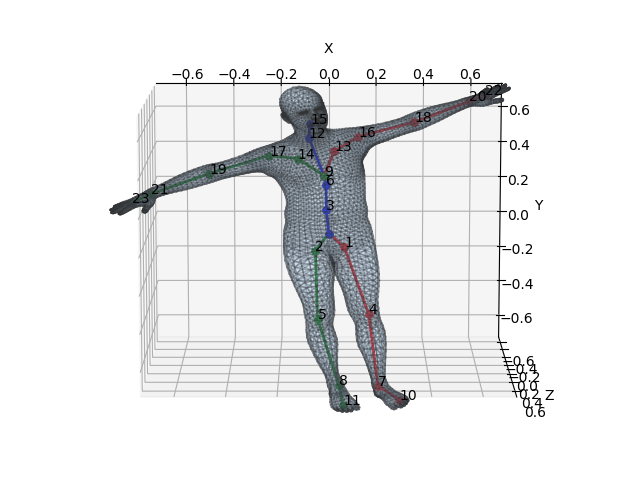
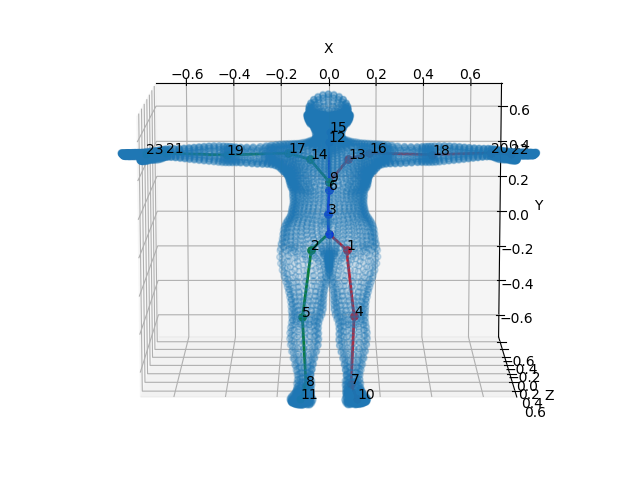
add trainer and SMPL-h36m conv

Changed region(s): [[0.1562, 0.1562, 0.8438, 0.875]]

diff --git a/dataset_def/h36m_SMPL_data.py b/dataset_def/h36m_SMPL_data.py
@@ -8,7 +8,7 @@ import torch
 from utils.utils_H36M.common import H36M_CONF
 from sample.config.encoder_decoder import PARAMS
 from dataset_def.h36m_preprocess import Data_Base_class
-from utils.utils_H36M.transformations import get_patch_image, bounding_box_pixel, rotate_z
+from utils.utils_H36M.transformations import get_patch_image, bounding_box_pixel
 from utils.trans_numpy_torch import numpy_to_tensor, image_numpy_to_pytorch, numpy_to_long, tensor_to_numpy
 
 class SMPL_Data(Data_Base_class):
@@ -50,34 +50,6 @@ class SMPL_Data(Data_Base_class):
             shuffle(self.index_file)
         self.elements_taken=0
         self._current_epoch=0
-
-
-    def get_mean_pose(self):
-        summed = np.zeros((17,3))
-        N = 0
-        for s in self.all_metadata:
-            for act in self.all_metadata[s]:
-                for subact in self.all_metadata[s][act]:
-                    for ca in self.all_metadata[s][act][subact]:
-                        metadata=self.all_metadata[s][act][subact][ca]['joint_world']
-                        N += metadata.shape[0]
-                        summed += np.sum(metadata, axis=0)
-
-        return summed/N
-
-    def get_std_pose(self,mean):
-        summed = np.zeros((17,3))
-        mean=mean.reshape(1,17,3)
-        N = 0
-        for s in self.all_metadata:
-            for act in self.all_metadata[s]:
-                for subact in self.all_metadata[s][act]:
-                    for ca in self.all_metadata[s][act][subact]:
-                        metadata=self.all_metadata[s][act][subact][ca]['joint_world']
-                        N+= metadata.shape[0]
-                        summed += np.sum((metadata-mean)**2, axis=0)
-        summed /= N-1
-        return np.sqrt(summed)
 
 
 
@@ -129,7 +101,6 @@ class SMPL_Data(Data_Base_class):
         return dic
 
 
-
     def update_dic_with_image(self, dic, s, act, subact, ca, fno, rotation_angle):
         im, joints_world=self.extract_image_info(s, act, subact, ca, fno, rotation_angle=rotation_angle)
         dic['image'].append(image_numpy_to_pytorch(im))
@@ -149,8 +120,11 @@ class SMPL_Data(Data_Base_class):
         return dic
 
     def dic_final_processing(self,dic):
+
         dic['image'] = torch.stack(dic['image'], dim=0)
         dic['joints_im'] = torch.stack(dic['joints_im'], dim=0)
+        dic['root_pos'] = dic['joints_im'][:, H36M_CONF.joints.root_idx, : ]
+        dic['root_pos'] = dic['root_pos'].view(-1, 1, 3)
         for mask in dic['masks'].keys():
             for key in dic['masks'][mask].keys():
                 if key == 'idx':
@@ -173,7 +147,6 @@ class SMPL_Data(Data_Base_class):
         len(self.index_file_cameras) // self.batch_size
 
 
-    # remember subtract the root index !!!!!!!
     def __getitem__(self, item):
         idx = item * self.batch_size
         dic = self.create_dictionary_data()
@@ -207,12 +180,28 @@ if __name__== '__main__' :
     s,act,sub,ca,fno = c.index_file[el_idx+idx]
     print(s,act,sub,ca,fno)
     joints=dic['joints_im']
+    j_plot = tensor_to_numpy(joints[idx])
+    f = plt.figure()
+    f = d.pose_3d(j_plot, True, f, -90, 0)
+    plt.show()
+    f=plt.figure()
+    from utils.utils_H36M.transformations import rotate_z, rotate_x, rotate_y
+    j_plot = j_plot @ rotate_x(-90/180*np.pi).T
+    f = d.pose_3d(j_plot, True, f,-90,90)
+    plt.show()
+
+    """
     im = dic['image']
     im= tensor_to_numpy(im, from_gpu=False).transpose(0,2,3,1)
     im=im[idx]
     for i in range(1,5):
         mask_dic=dic['masks'][i]
         cam = world_to_camera_batch(joints,17,mask_dic['R'],mask_dic['T'])
+        j_plot = tensor_to_numpy(cam[idx])
+        if ca ==i:
+            f = plt.figure()
+            f = d.pose_3d(j_plot, True, f, -90, -90)
+            plt.show()
         pix = camera_to_pixels_batch(cam, 17, mask_dic['f'], mask_dic['c'])
         tranpi = transform_2d_joints_batch(pix,mask_dic['trans_crop'])
         tranpi = tensor_to_numpy(tranpi)
@@ -230,8 +219,7 @@ if __name__== '__main__' :
         imjj=d.pose_2d(mask,tranpi[idx],False)
         plt.imshow(imjj)
         plt.show()
-
-
+    """
 
 
 

diff --git a/sample/trainer/trainer_SMPL_from_encoder.py b/sample/trainer/trainer_SMPL_from_encoder.py
@@ -22,7 +22,7 @@ else:
     no_cuda=False
 device = PARAMS['data']['device']
 
-class Trainer_Enc_Dec_Pose(BaseTrainer):
+class Trainer_Enc_Dec_SMPL(BaseTrainer):
     """
     Trainer class, inherited from BaseTrainer
     """
@@ -44,10 +44,9 @@ class Trainer_Enc_Dec_Pose(BaseTrainer):
                          args.verbosity, args.train_log_step,
                          args.verbosity_iter)
 
-        self.model.fix_encoder_decoder()
-
         self.loss = loss
         self.metrics = metrics
+        self.model.fix_encoder_decoder()
         self.data_train = data_train
         self.data_test = data_test
 
@@ -63,7 +62,8 @@ class Trainer_Enc_Dec_Pose(BaseTrainer):
         self.length_test_set = len(self.data_test)
         self.len_trainset = len(self.data_train)
         self.drawer = Drawer()
-        mean= self.data_train.get_mean_pose()
+        #calculate mean SMPL pose
+
         self.mean_pose = numpy_to_tensor(mean.reshape(1,17,3))
         #std = self.data_train.get_std_pose(mean).reshape(1, 17, 3)
         #self.std_pose = numpy_to_tensor(std)
@@ -87,8 +87,8 @@ class Trainer_Enc_Dec_Pose(BaseTrainer):
                 string += " "
                 string += " %s," % elements
         info['details'] = string
-        info['optimiser']=str(self.optimizer)
-        info['loss']=str(self.loss.__class__.__name__)
+        info['optimiser'] = str(self.optimizer)
+        info['loss'] = str(self.loss.__class__.__name__)
         info['sampling'] = str(self.data_train.sampling)
         return info
 
@@ -145,6 +145,8 @@ class Trainer_Enc_Dec_Pose(BaseTrainer):
 
         self.optimizer.zero_grad()
         out_pose_norm = self.model(dic_in)
+
+
         gt, mean = self.gt_cam_mean_cam(dic_in, dic_out)
         #normalise gt
         gt_norm = gt-mean

diff --git a/utils/conversion_SMPL_h36m_torch.py b/utils/conversion_SMPL_h36m_torch.py
@@ -1,0 +1,43 @@
+from utils.trans_numpy_torch import numpy_to_long
+import torch
+
+class Convert_joints():
+
+    def __init__(self):
+        # root index 0 h36m index 0 smpl
+        # right leg index 2 h36m index 5 smpl
+        # right foot index 3 h36m index 8 smpl
+        # left leg index 5 h36m index 4 smpl
+        # left foot index 6 h36m index 7 smpl
+        # spine index 7 h36m index 6 smpl
+        # neck index 8 h36m index 12 smpl
+        # head index 9 h36m index 15 smpl  # lower weight
+        # left shoulder index 11 h36m index 16 smpl
+        # left forearm index 12 h36m index 18 smpl
+        # left wrist index 13 h36m index 20 smpl
+        # right shoulder index 14 h36m index 17 smpl
+        # right forearm index 15 h36m index 19 smpl
+        # right wrist index 16 h36m index 21 smpl
+        self.index_smpl = [0, 5, 8, 4, 7, 6, 12, 15, 16, 18, 20, 17, 19, 21]
+        self.index_smpl = numpy_to_long(self.index_smpl)
+        self.index_h36m = [0, 2, 3, 5, 6, 7, 8, 9, 11, 12, 13, 14, 15, 16]
+        self.index_h36m = numpy_to_long(self.index_h36m)
+
+    def index_SMPL(self, smpl_joints, batch=True):
+        if batch:
+            return torch.index_select(smpl_joints, dim=1, index=self.index_smpl)
+        return torch.index_select(smpl_joints, dim=0, index=self.index_smpl)
+
+    def index_h36m(self, h36m_joints, batch=True):
+        if batch:
+            return torch.index_select(h36m_joints, dim=1, index=self.index_h36m)
+        return torch.index_select(h36m_joints, dim=0, index=self.index_h36m)
+
+    def match_joints(self, smpl_joints, h36m_joints, batch):
+        smpl_joints = self .index_SMPL(smpl_joints, batch)
+        h36m_joints = self.index_h36m(h36m_joints, batch)
+        return smpl_joints, h36m_joints
+
+
+
+

diff --git a/sample/base/base_trainer.py b/sample/base/base_trainer.py
@@ -25,7 +25,7 @@ class BaseTrainer(FrameworkClass):
     Base class for all trainers
     """
 
-    def __init__(self, model, loss, metrics, optimizer, no_cuda, eval_epoch, epochs,
+    def __init__(self, model, optimizer, no_cuda, eval_epoch, epochs,
                  name, output, save_freq, verbosity,
                  train_log_step, verbosity_iter,reset=False, **kwargs):
         """Init class"""
@@ -34,8 +34,6 @@ class BaseTrainer(FrameworkClass):
 
 
         self.model = model
-        self.loss = loss
-        self.metrics = metrics
         self.optimizer = optimizer
         self.epochs = epochs
         self.training_name = name
@@ -130,7 +128,7 @@ class BaseTrainer(FrameworkClass):
             info = io.read_from_json(info_file_path)
         self.training_info = info
 
-    def _update_summary(self, global_step, loss, metrics):
+    def _update_summary(self, global_step, loss):
         """Update training summary details
 
         Arguments:
@@ -141,11 +139,6 @@ class BaseTrainer(FrameworkClass):
 
         self.training_info['global_step'] = global_step
         self.training_info['val_loss'] = loss
-        for idx, metric in enumerate(self.metrics):
-            m = metrics[idx]
-            if isinstance(m, np.ndarray):
-                m = m.tolist()
-            self.training_info['val_{}'.format(metric._desc)] = m
 
         info_file_path = os.path.join(self.save_dir,
                                       self.training_name,

diff --git a/utils/utils_H36M/visualise.py b/utils/utils_H36M/visualise.py
@@ -15,7 +15,8 @@ class Drawer:
 
     def __init__(self, line=1, marker=2, visibility=None):
 
-        self.limbs_names=['hip','right_up_leg','right_leg','right_foot','left_up_leg','left_leg', 'left_foot','spine1','neck', 'head','head-top','left-arm','left_forearm','left_hand','right_arm','right_forearm','right_hand']
+        self.limbs_names=['hip','right_up_leg','right_leg','right_foot','left_up_leg','left_leg', 'left_foot','spine1', 'neck', 'head','head-top',
+                          'left-arm','left_forearm','left_hand','right_arm','right_forearm','right_hand']
         self._limb_color = [0, 1, 2, 0, 3, 4, 5, 6, 7, 7, 5, 5, 8, 9, 5, 5,10,11,7]
         self._limbs = [[0, 1], [1, 2], [2, 3], [0, 4], [4, 5], [5, 6], [1, 7], [7, 8],
                   [8, 9], [9, 10], [7, 11], [4, 7], [11, 12], [12, 13], [7,14], [14,11], [14,15],[15,16], [0,7]]
@@ -153,6 +154,7 @@ class Drawer:
 
 
     def pose_3d(self, pose, plot = False, fig = None, azim=-90, elev=-90):
+        #in world coordinate -90,0 instead
         if plot:
             assert fig is not None
         else:
@@ -172,8 +174,8 @@ class Drawer:
                        marker='o', edgecolor=col, s=self.marker)
         if self.equal_axes:
             self._scale_plot(pose, ax)
-        if not self.planes:
-            self._hide_planes(ax)
+        #if not self.planes:
+        #    self._hide_planes(ax)
 
         fig.canvas.draw()
         if plot:

diff --git a/utils/utils_H36M/test_utils.py b/utils/utils_H36M/test_utils.py
@@ -24,9 +24,9 @@ from data.config import backgrounds_location
 d=Data_Base_class(sampling=1,index_as_dict=True)
 d.create_index_file('s',[[1]])
 print(d.index_file)
-path=d.index_file[1][2][1][4][1]
+path=d.index_file[1][2][2][2][1]
 #
-path2=d.index_file[1][2][1][4][2]
+path2=d.index_file[1][2][2][2][2]
 sample_metadata=d.load_metadata(get_parent(path))
 img=d.extract_image(path)
 sample_metadata2=d.load_metadata(get_parent(path2))
@@ -107,7 +107,7 @@ joint_px=world_to_pixel(
 
 
 bbpx_px=bounding_box_pixel(joints_world, 0, sample_metadata['R'], sample_metadata['T'], sample_metadata['f'], sample_metadata['c'])
-imwarped,trans = get_patch_image(img, bbpx_px, (256,256), 0)#np.pi/4) # in degrees rotation around z axis
+imwarped,trans = get_patch_image(img, bbpx_px, (512,512), 0)#np.pi/4) # in degrees rotation around z axis
 trans_torch = numpy_to_tensor(trans.reshape(1,2,3))
 trsft_joints_torch = transform_2d_joints_batch(joints_pix_torch, trans_torch)
 trsf_joints = transform_2d_joints(joint_px, trans)
@@ -115,8 +115,10 @@ trsft_joints_torch = tensor_to_numpy(trsft_joints_torch).reshape(17,2)
 
 
 b=Drawer()
-ax=plt.subplot()
-ax=b.pose_2d(ax,imwarped,trsft_joints_torch)
+fig=plt.figure()
+plt.imshow(imwarped)
+plt.scatter(trsft_joints_torch[7,0],trsft_joints_torch[7,1])
+#fig=b.pose_2d(imwarped,trsft_joints_torch, True, fig)
 plt.show()
 
 

diff --git a/utils/smpl_torch/demo.py b/utils/smpl_torch/demo.py
@@ -9,11 +9,11 @@ if __name__ == '__main__':
     # Create the SMPL layer
     smpl_layer = SMPL_Layer(
         center_idx=0,
-        gender='male',
+        gender='female',
         model_root='data/models_smpl')
     # Generate random pose and shape parameters
-    pose_params = torch.rand(batch_size, 72) * 0.1
-    shape_params = torch.rand(batch_size, 10) * 0.03
+    pose_params = torch.rand(batch_size, 72) * 0
+    shape_params = torch.rand(batch_size, 10) * 0.3
     # GPU mode
     if cuda:
         pose_params = pose_params.cuda()
@@ -22,12 +22,13 @@ if __name__ == '__main__':
     # Forward from the SMPL layer
     verts, Jtr = smpl_layer(pose_params, th_betas=shape_params)
     print(Jtr.size())
-
+    print(torch.sqrt(torch.sum(torch.mul(Jtr,Jtr))))
+    print(smpl_layer.th_faces)
     # Draw output vertices and joints
     display_model(
         {'verts': verts.cpu().detach(),
          'joints': Jtr.cpu().detach()},
-        model_faces=smpl_layer.th_faces,
+        model_faces= smpl_layer.th_faces,
         with_joints=True,
         kintree_table=smpl_layer.kintree_table,
         savepath='image.png',

diff --git a/sample/trainer/trainer_encoder_decoder.py b/sample/trainer/trainer_encoder_decoder.py
@@ -35,13 +35,14 @@ class Trainer_Enc_Dec(BaseTrainer):
                  eval_epoch = False
                  ):
 
-        super().__init__(model, loss, metrics, optimizer,
+        super().__init__(model, optimizer,
                          no_cuda,eval_epoch, args.epochs,
                  args.name, args.output, args.save_freq, args.verbosity,
                  args.train_log_step, args.verbosity_iter
                          )
 
-
+        self.loss = loss
+        self.metrics = metrics
         self.data_train = data_train
         self.data_test = data_test
         #test while training
@@ -73,7 +74,8 @@ class Trainer_Enc_Dec(BaseTrainer):
         """
         info = dict()
         info['creation'] = str(datetime.datetime.now())
-        info['size_dataset'] = len(self.data_train)
+        info['size_batches'] = len(self.data_train)
+        info['batch_size'] = self.model.batch_size
         string=""
         for number,contents in enumerate(self.data_train.index_file_list):
             string += "\n content :" + self.data_train.index_file_content[number]

diff --git a/dataset_def/h36m_encoder_data.py b/dataset_def/h36m_encoder_data.py
@@ -191,8 +191,8 @@ class Data_3dpose(Data_Base_class):
         new_act, new_subact, new_ca, new_ca2, new_fno = self.return_apperance_contents(s,act)
         #print(s,new_act, new_subact, new_ca, new_ca2, new_fno)
         im1, R1, background1, joints1 = self.extract_all_info_memory_background(s, new_act, new_subact, new_ca, new_fno)
-        imT, R2T, background1T, jointsT = self.extract_all_info_memory_background(s, new_act, new_subact, new_ca2, new_fno)
-        return im1, R1, background1, joints1, imT, R2T, background1T, jointsT
+        imT, RT, background1T, jointsT = self.extract_all_info_memory_background(s, new_act, new_subact, new_ca2, new_fno)
+        return im1, R1, background1, joints1, imT, RT, background1T, jointsT
 
     def testing_all(self,index):
 

diff --git a/utils/smpl_torch/display_utils.py b/utils/smpl_torch/display_utils.py
@@ -25,7 +25,7 @@ def display_model(
     if model_faces is None:
         ax.scatter(verts[:, 0], verts[:, 1], verts[:, 2], alpha=0.2)
     else:
-        mesh = Poly3DCollection(verts[model_faces], alpha=0.2)
+        mesh = Poly3DCollection(verts[model_faces], alpha=0.2) #[model_faces]
         face_color = (141 / 255, 184 / 255, 226 / 255)
         edge_color = (50 / 255, 50 / 255, 50 / 255)
         mesh.set_edgecolor(edge_color)

diff --git a/utils/trans_numpy_torch.py b/utils/trans_numpy_torch.py
@@ -16,7 +16,7 @@ def numpy_to_tensor(data):
 
 
 def numpy_to_long(data):
-    return  torch.LongTensor(data).to(device)
+    return torch.LongTensor(data).to(device)
 
 def encoder_dictionary_to_pytorch(dic):
     for key in dic.keys():
